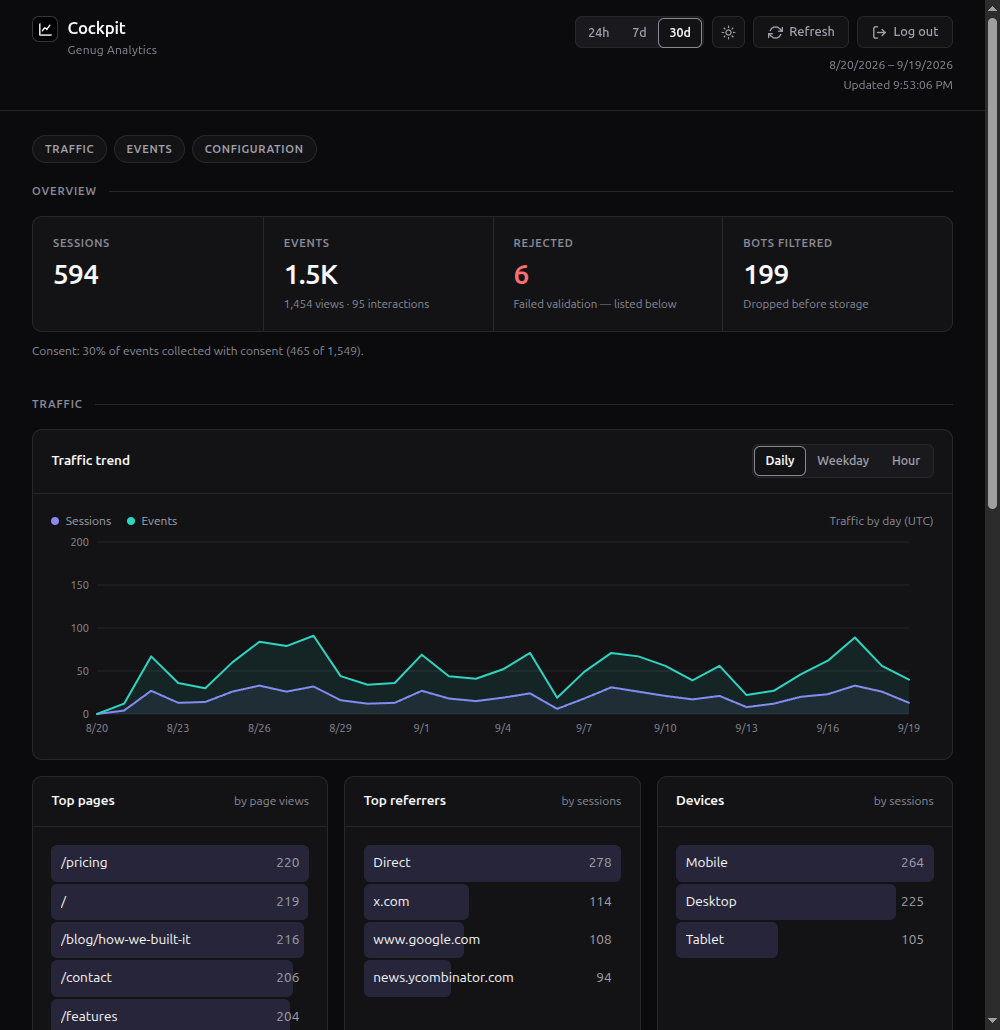
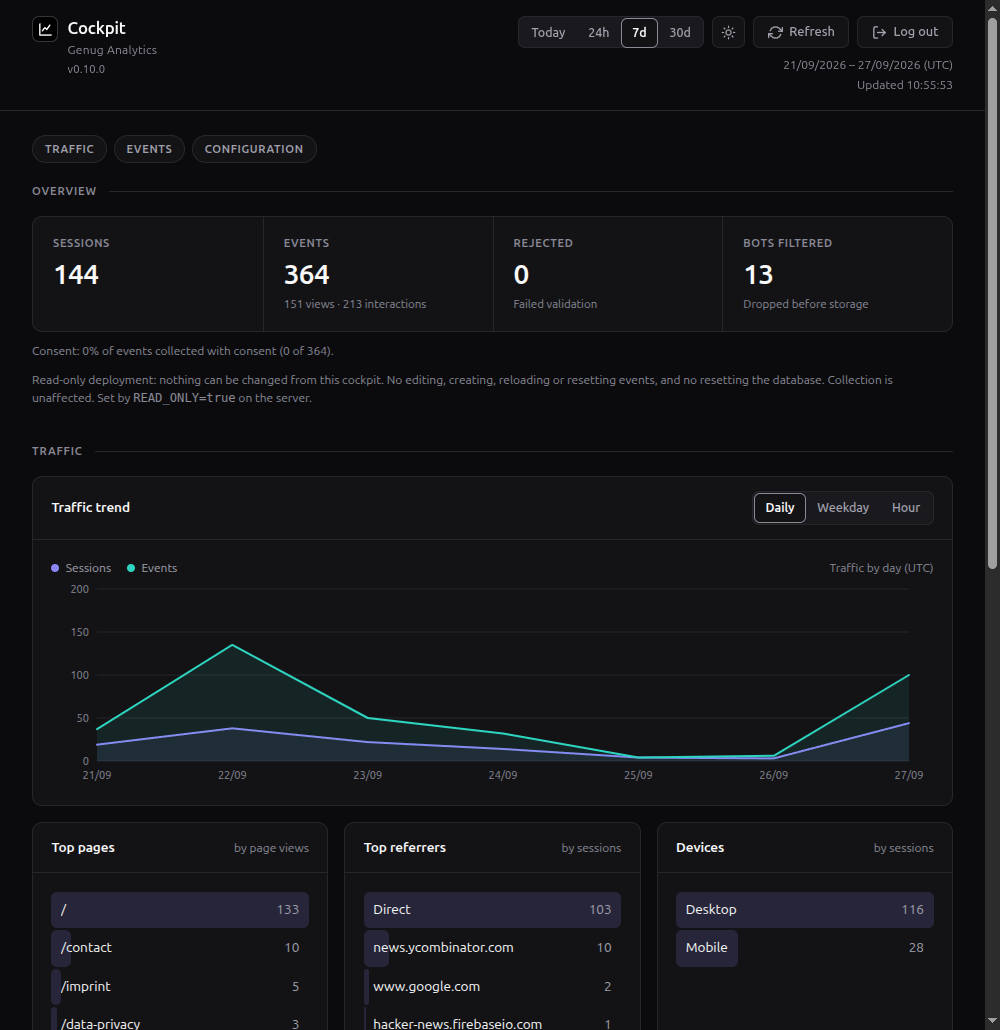
update cockpit screenshot for 0.10.0

diff --git a/README.md b/README.md
@@ -65,7 +65,7 @@ cover 3 and 4.
 
 A small cockpit is there for when you want to look rather than ask:
 
-![The Genug Analytics cockpit in dark mode: an Overview band with session, event, rejected and bot counts, then a 30-day traffic trend chart and cards ranking top pages, top referrers and device types](docs/assets/cockpit.png)
+![The Genug Analytics cockpit in dark mode: an Overview band with session, event, rejected and bot counts, then a 7-day traffic trend chart and cards ranking top pages, top referrers and device types](docs/assets/cockpit.png)
 
 ## Quick start
 
